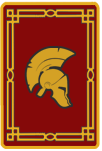
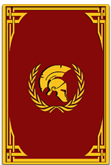
change card

diff --git a/src/components/Css/Card.css b/src/components/Css/Card.css
@@ -1,8 +1,8 @@
 .card {
   display: flex;
   justify-content: center;
-  min-width: 105px;
-  height: 150px;
+  min-width: 110px;
+  height: 165px;
   vertical-align: top;
   cursor: pointer;
   margin: 2px;
@@ -10,8 +10,8 @@
 
 .card .not-opened {
 background-image:url(../assets/miniCardR.png);
- width: 100px;
- height:150px;
+ width: 110px;
+ height:165px;
 }
 
 .card.matched {

diff --git a/src/components/Css/Header.css b/src/components/Css/Header.css
@@ -11,7 +11,7 @@
 .logo{
     transform: translateY(-94vh);
     z-index: 98;
-    width: 29vw ;
+    width: 25vw ;
     height: 45vh;
 }
 .rulesButton{
